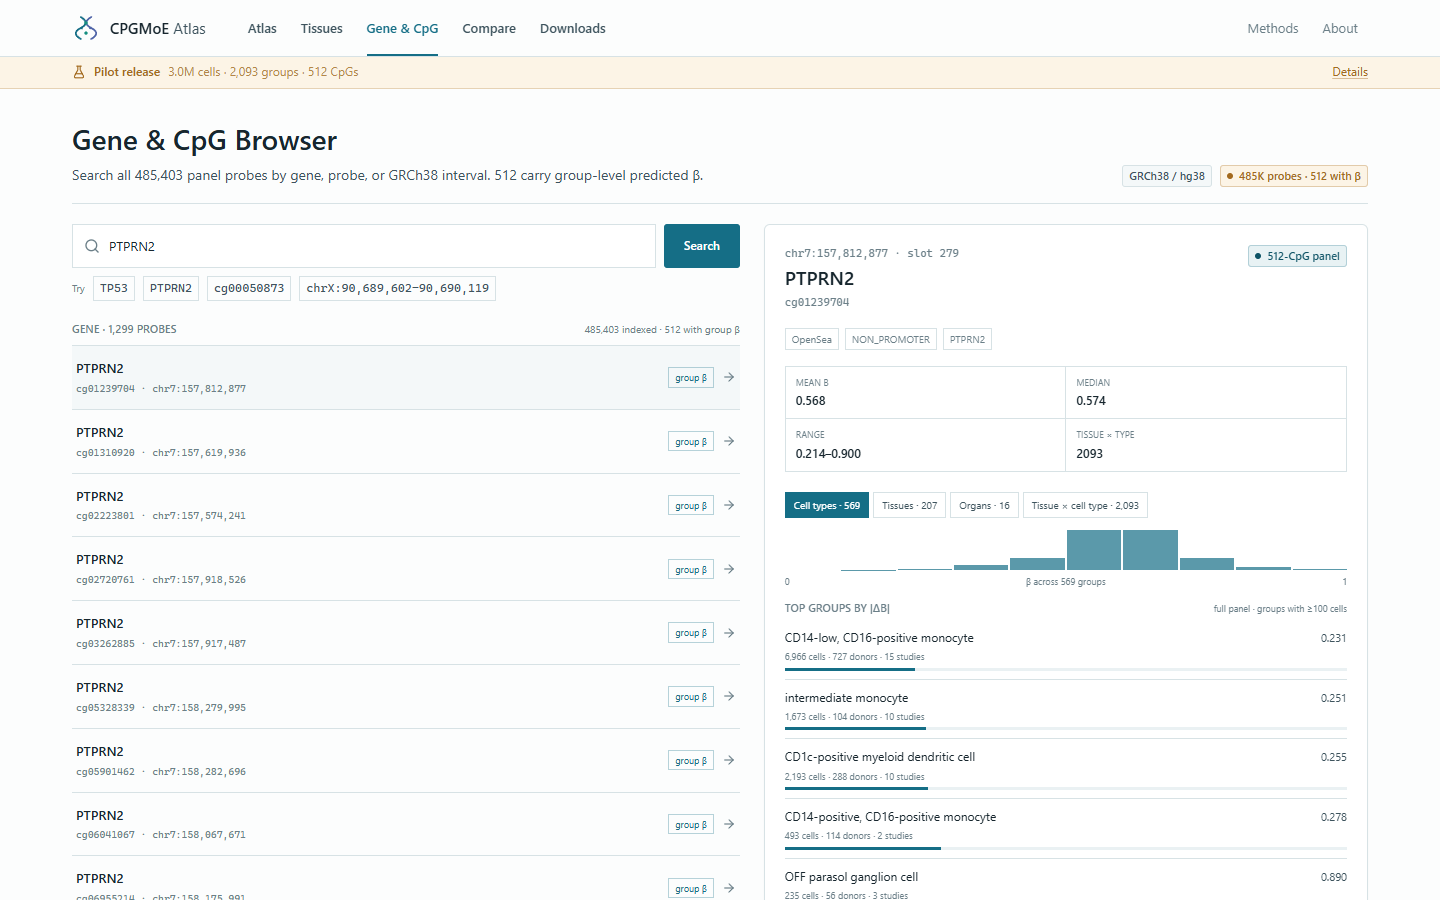
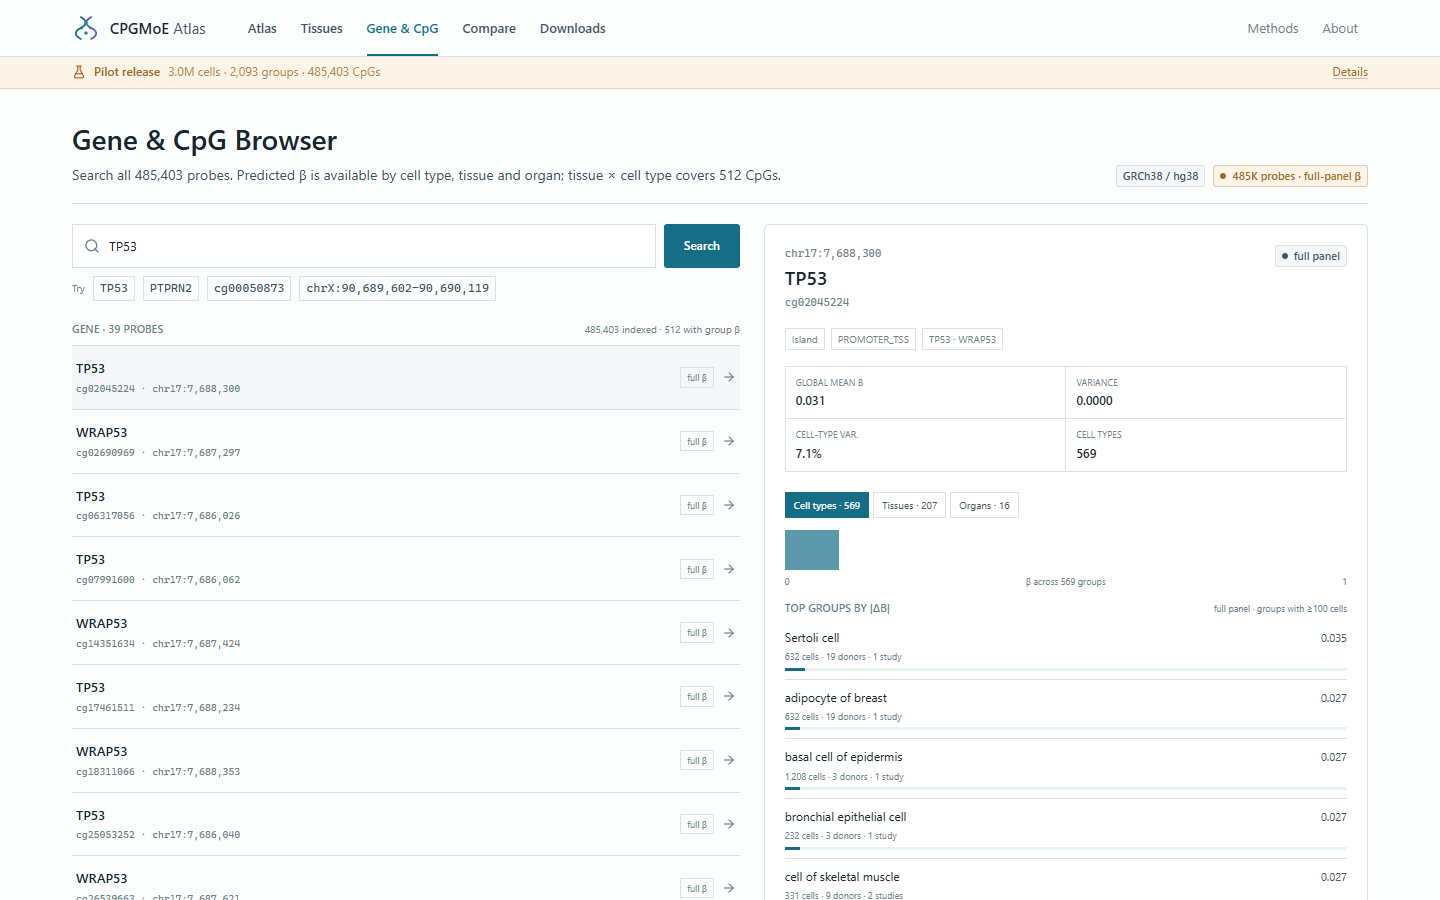
Align copy with full-panel coverage and polish mobile detail tables
- Banner, home metrics and version bar now cite 485,403 probes instead of 512
- Browser states full-panel beta by cell type/tissue/organ; result badges say
  'panel + full' vs 'full beta'
- Cell-type page: mobile summary row instead of stacked unlabeled numbers

diff --git a/src/app/page.tsx b/src/app/page.tsx
@@ -4,6 +4,7 @@ import { CinematicHero } from "@/components/home/cinematic-hero";
 import { GlobalSearch } from "@/components/global-search";
 import { count } from "@/lib/format";
 import { IS_PILOT } from "@/lib/data-mode";
+import { FULL_LEVELS } from "@/lib/full-profiles";
 import { pilotHeatmap, pilotRelease } from "@/lib/pilot";
 
 const TOOLS = IS_PILOT
@@ -24,8 +25,11 @@ const METRICS = IS_PILOT
   ? [
       { value: "3.0M", label: "cells" },
       { value: "2,093", label: "cell-type groups" },
-      { value: "435", label: "cell types" },
-      { value: "512", label: "CpGs" },
+      {
+        value: `${FULL_LEVELS.find((level) => level.id === "celltype")?.n_groups ?? 569}`,
+        label: "cell types",
+      },
+      { value: "485K", label: "CpGs" },
     ]
   : [
       { value: "450K", label: "panel CpGs" },
@@ -155,7 +159,8 @@ export default function HomePage() {
         <div className="shell flex flex-wrap items-center justify-between gap-2 border-t border-line py-3 text-[10px] text-ink-faint">
           <span>Release {pilotRelease.release_id}</span>
           <span>
-            Updated {pilotRelease.generated_at} · {pilotRelease.n_profiled_cpgs} CpGs ·{" "}
+            Updated {pilotRelease.generated_at} ·{" "}
+            {pilotRelease.n_panel_probes.toLocaleString("en-US")} CpGs ·{" "}
             {pilotRelease.n_groups.toLocaleString("en-US")} groups
           </span>
           <Link href="/methods#data-status" className="hover:text-primary">

diff --git a/src/app/cell-types/[id]/page.tsx b/src/app/cell-types/[id]/page.tsx
@@ -88,14 +88,19 @@ export default async function CellTypePage({
             className="group grid gap-1 border-t border-line px-2 py-2.5 transition-colors hover:bg-paper-tint sm:grid-cols-[1.1fr_1.6fr_0.6fr_0.6fr_auto] sm:items-center sm:gap-3"
           >
             <span className="mono text-[11px] text-ink">{cpg.cpg_id}</span>
-            <span className="truncate text-[11px] text-ink-soft">
+            <span className="text-[10px] text-ink-faint sm:hidden">
+              {cpg.gene ?? "—"} · β {cpg.beta.toFixed(3)} · Δ{" "}
+              {cpg.delta >= 0 ? "+" : ""}
+              {cpg.delta.toFixed(3)}
+            </span>
+            <span className="hidden truncate text-[11px] text-ink-soft sm:inline">
               {cpg.gene ?? "—"}
             </span>
-            <span className="tabular text-[11px] text-ink sm:text-right">
+            <span className="hidden tabular text-[11px] text-ink sm:inline sm:text-right">
               {cpg.beta.toFixed(3)}
             </span>
             <span
-              className={`tabular text-[11px] sm:text-right ${
+              className={`hidden tabular text-[11px] sm:inline sm:text-right ${
                 cpg.delta >= 0 ? "text-primary" : "text-warm"
               }`}
             >

diff --git a/src/app/browser/page.tsx b/src/app/browser/page.tsx
@@ -51,15 +51,15 @@ export default async function BrowserPage({
               Gene &amp; CpG Browser
             </h1>
             <p className="mt-2 max-w-3xl text-[14px] leading-relaxed text-ink-soft">
-              Search all {PROBE_COUNT.toLocaleString("en-US")} panel probes by
-              gene, probe, or GRCh38 interval. {PROFILED_COUNT} carry group-level
-              predicted β.
+              Search all {PROBE_COUNT.toLocaleString("en-US")} probes. Predicted β
+              is available by cell type, tissue and organ; tissue × cell type
+              covers {PROFILED_COUNT} CpGs.
             </p>
           </div>
           <div className="flex shrink-0 flex-wrap items-center gap-2">
             <Badge tone="neutral">GRCh38 / hg38</Badge>
             <Badge tone="warm" dot>
-              485K probes · {PROFILED_COUNT} with β
+              485K probes · full-panel β
             </Badge>
           </div>
         </div>

diff --git a/src/components/pilot/browser-explorer.tsx b/src/components/pilot/browser-explorer.tsx
@@ -171,8 +171,8 @@ export function PilotBrowser({
           </p>
           <span className="text-[10px] text-ink-faint">
             {results.coverage
-              ? `${results.coverage.indexed_probes.toLocaleString("en-US")} indexed · ${results.coverage.profiled_cpgs} with group β`
-              : "512-CpG panel"}
+              ? `${results.coverage.indexed_probes.toLocaleString("en-US")} probes · full-panel β`
+              : "485,403 probes"}
           </span>
         </div>
 
@@ -203,7 +203,7 @@ export function PilotBrowser({
                         : "border-line text-ink-faint"
                     }`}
                   >
-                    {cpg.profiled ? "group β" : "annotation"}
+                    {cpg.profiled ? "panel + full" : "full β"}
                   </span>
                   <ArrowRight className="h-3.5 w-3.5 text-ink-faint" aria-hidden="true" />
                 </span>

diff --git a/src/components/pilot/cpg-panel.tsx b/src/components/pilot/cpg-panel.tsx
@@ -130,7 +130,7 @@ export function CpgPanel({ cpgId }: { cpgId: string | null }) {
           <p className="mono mt-1 text-[11px] text-ink-faint">{cpg.cpg_id}</p>
         </div>
         <Badge tone={detail.group_level_available ? "primary" : "neutral"} dot>
-          {detail.group_level_available ? "512-CpG panel" : "full panel"}
+          {detail.group_level_available ? "panel + full" : "full panel"}
         </Badge>
       </div>
 

diff --git a/src/components/global-search.tsx b/src/components/global-search.tsx
@@ -108,7 +108,7 @@ export function GlobalSearch({ autoFocus = false }: { autoFocus?: boolean }) {
           <span aria-hidden="true" className="mr-1.5 text-line-strong">
             |
           </span>
-          GRCh38/hg38 · {IS_PILOT ? "512-CpG panel" : "demo records only"}
+          GRCh38/hg38 · {IS_PILOT ? "485,403 probes" : "demo records only"}
         </span>
       </div>
       {error ? (

diff --git a/src/app/atlas/page.tsx b/src/app/atlas/page.tsx
@@ -36,7 +36,7 @@ export default async function AtlasPage({
             </p>
           </div>
           <div className="flex shrink-0 flex-wrap items-center gap-2">
-            <Badge tone="neutral">{pilotRelease.n_profiled_cpgs} CpGs</Badge>
+            <Badge tone="neutral">{pilotRelease.n_profiled_cpgs} heatmap CpGs</Badge>
           </div>
         </div>
 

diff --git a/src/lib/data-mode.ts b/src/lib/data-mode.ts
@@ -40,5 +40,5 @@ export const MODE_BANNER = IS_PILOT
   : "Demo environment — synthetic data only";
 
 export const MODE_BANNER_DETAIL = IS_PILOT
-  ? "3.0M cells · 2,093 groups · 512 CpGs"
+  ? "3.0M cells · 2,093 groups · 485,403 CpGs"
   : "Illustrative values only.";
